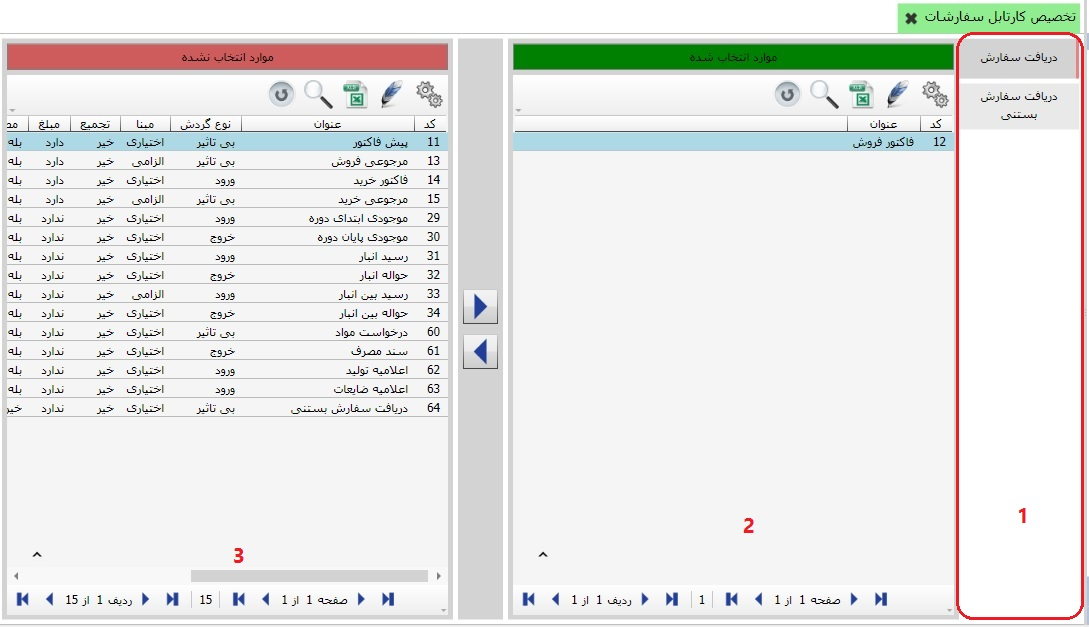
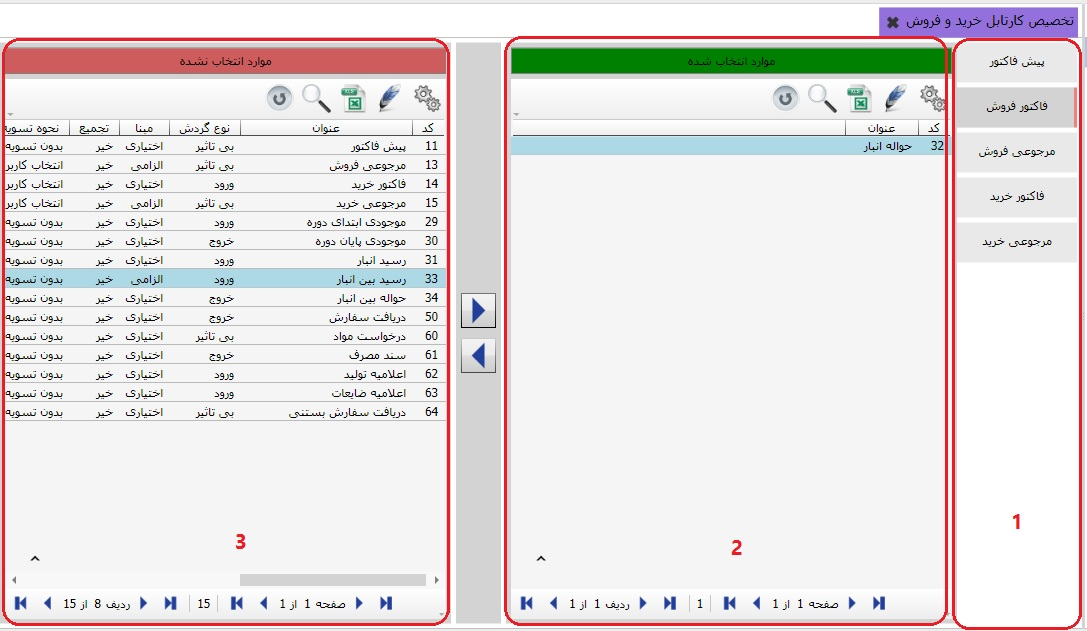
اصلاحات

diff --git a/Help/fa-IR/_06_خرید و فروش/_03_تخصیص کارتابل خرید و فروش/Index.html b/Help/fa-IR/_06_خرید و فروش/_03_تخصیص کارتابل خرید و فروش/Index.html
@@ -9,36 +9,36 @@
 <body>
 	<div>
 		<img class="Icon" src="i1.png" />
-		<h1> تخصیص کارتابل سفارشات </h1>
+		<h1> تخصیص کارتابل خرید و فروش </h1>
 	</div>
 	<p>
 		کارتابل در چهار سیستم خرید و فروش، سفارشات،انبارداری و برنامه ریزی و تولید
 		قابل استفاده می باشد. برای استفاده از کارتابل ابتدا باید وارد یکی از چهار سیستم 
 		فوق شوید، نحوه ی استفاده از کارتابل به این ترتیب می باشد که یک سند بر اساس سندی دیگر 
-		صادر می شود، هنگامی که وارد منوی تخصیص کارتابل سفارشات می شوید تصویر زیر نمایان می شود:
+		صادر می شود، هنگامی که وارد منوی تخصیص کارتابل خرید و فروش می شوید تصویر زیر نمایان می شود:
 	</p>
 	<img class="FitPic" src="l1.jpg" />
 	<P>
-		در کادر شماره ی یک لیست عملیات های سیستم دریافت سفارشات را مشاهده می کنید،
-		برای تخصیص کارتابل سفارشات روی عملیات مورد نظر در کادر سه کلیک کنید، و بعد از انتخاب 
+		در کادر شماره ی یک لیست عملیات های سیستم خرید و فروش  را مشاهده می کنید،
+		برای تخصیص کارتابل خرید و فروش روی عملیات مورد نظر در کادر سه کلیک کنید، و بعد از انتخاب 
 		عملیات مورد نظر از کادر شماره ی سه، با استفاده از فلش راست گرد عملیات را به 
-		کادر شماره ی دو منتقل کنید، در شکل بالا فاکتور فروش به دریافت سفارش تخصیص داده شده است، 
-		این به این معنی است که اگر در منوی صدور و ویرایش سند سفارشات عملیات دریافت سفارش ثبت کنید، 
-		این سند در سیستم خرید و فروش در بخش کارتابل اسناد خرید و فروش قابل مشاهده می باشد و همچنین 
-		می توانید بر اساس آن سند فاکتور فروش ثبت کنید.
+		کادر شماره ی دو منتقل کنید، در شکل بالا حواله ی انبار به فاکتور فروش تخصیص داده شده است، 
+		این به این معنی است که اگر در منوی صدور و ویرایش سند خریدو فروش عملیات فاکتور فروش ثبت کنید، 
+		این سند در سیستم انبار داری در بخش کارتابل اسناد خرید و فروش قابل مشاهده می باشد و همچنین 
+		می توانید بر اساس آن سند حواله ی انبار ثبت کنید.
 	</P>
 	<p>
-		حالا به صدور و ویرایش سند سفارشات می رویم و عملیات دریافت سفارش را یک سند می زنیم:
+		حالا به صدور و ویرایش سند خرید و فروش می رویم و عملیات فاکتور فروش را یک سند می زنیم:
 	</p>
 	<img class="FitPic" src="l2.jpg" />
 	<p>
-		پس از ثبت سند فوق به کارتابل اسناد خرید و فروش میرویم: 
+		پس از ثبت سند فوق به کارتابل اسناد انبار میرویم: 
 	</p>
 	<img class="FitPic" src="l3.jpg" />
 	<P>
-		همین طور که در تصویر بالا می بینید سند عملیات دریافت سفارش در کارتابل اسناد خرید و فروش 
-		قابل مشاهده است و می توان بر اساس آن فاکتور فروش ثبت کرد فقط کافی است که در سمت چپ تصویر 
-		بر روی کلید فاکتور فروش کلیک کنید.
+		همین طور که در تصویر بالا می بینید سند عملیات فاکتور فروش در کارتابل اسناد انبار داری
+		قابل مشاهده است و می توان بر اساس آن حواله ی انبار صادر کرد، فقط کافی است که در سمت چپ تصویر 
+		بر روی کلید حواله ی انبار کلیک کنید.
 
 
 

diff --git a/Help/fa-IR/_05_دریافت سفارشات/_09_کارتابل اسناد سفارشات/Index.html b/Help/fa-IR/_05_دریافت سفارشات/_09_کارتابل اسناد سفارشات/Index.html
@@ -9,7 +9,7 @@
 <body>
 	<div>
 		<img class="Icon" src="i1.png" />
-		<h1> تخصیص کارتابل سفارشات </h1>
+		<h1> کارتابل اسناد سفارشات </h1>
 	</div>
 	<p>
 		کارتابل در چهار سیستم خرید و فروش، سفارشات، انبارداری و برنامه ریزی و تولید
